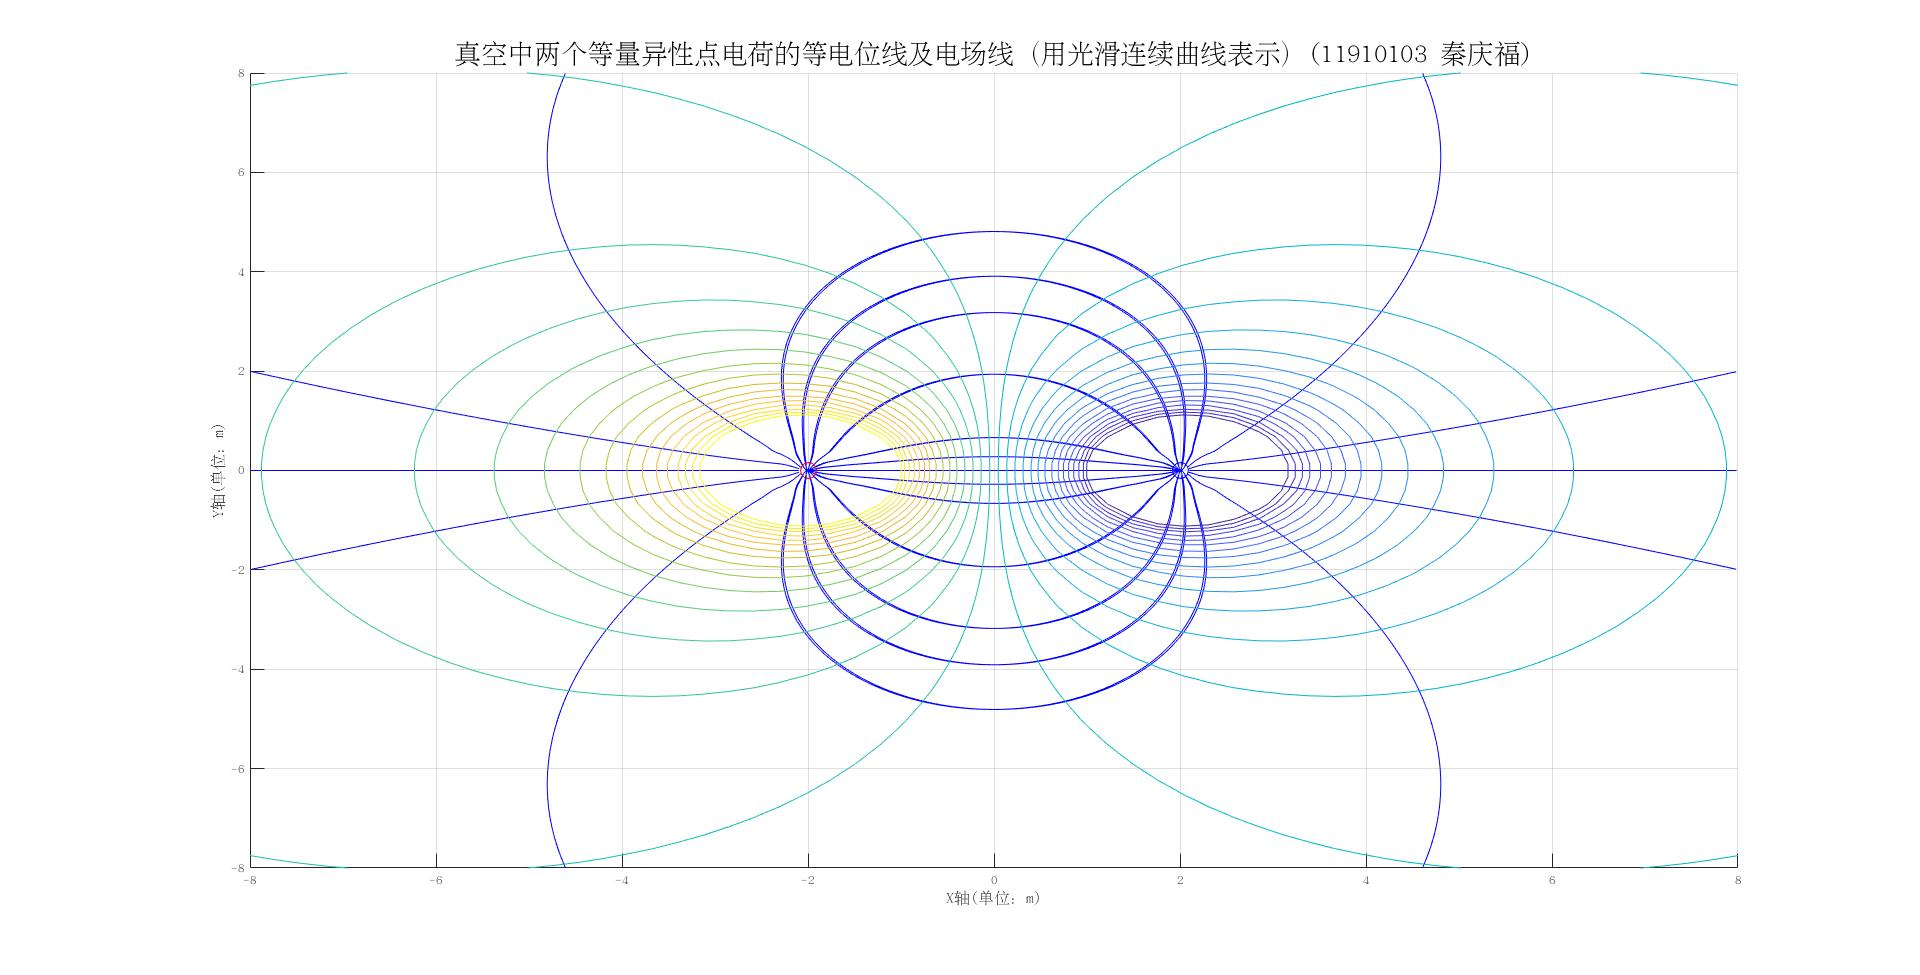
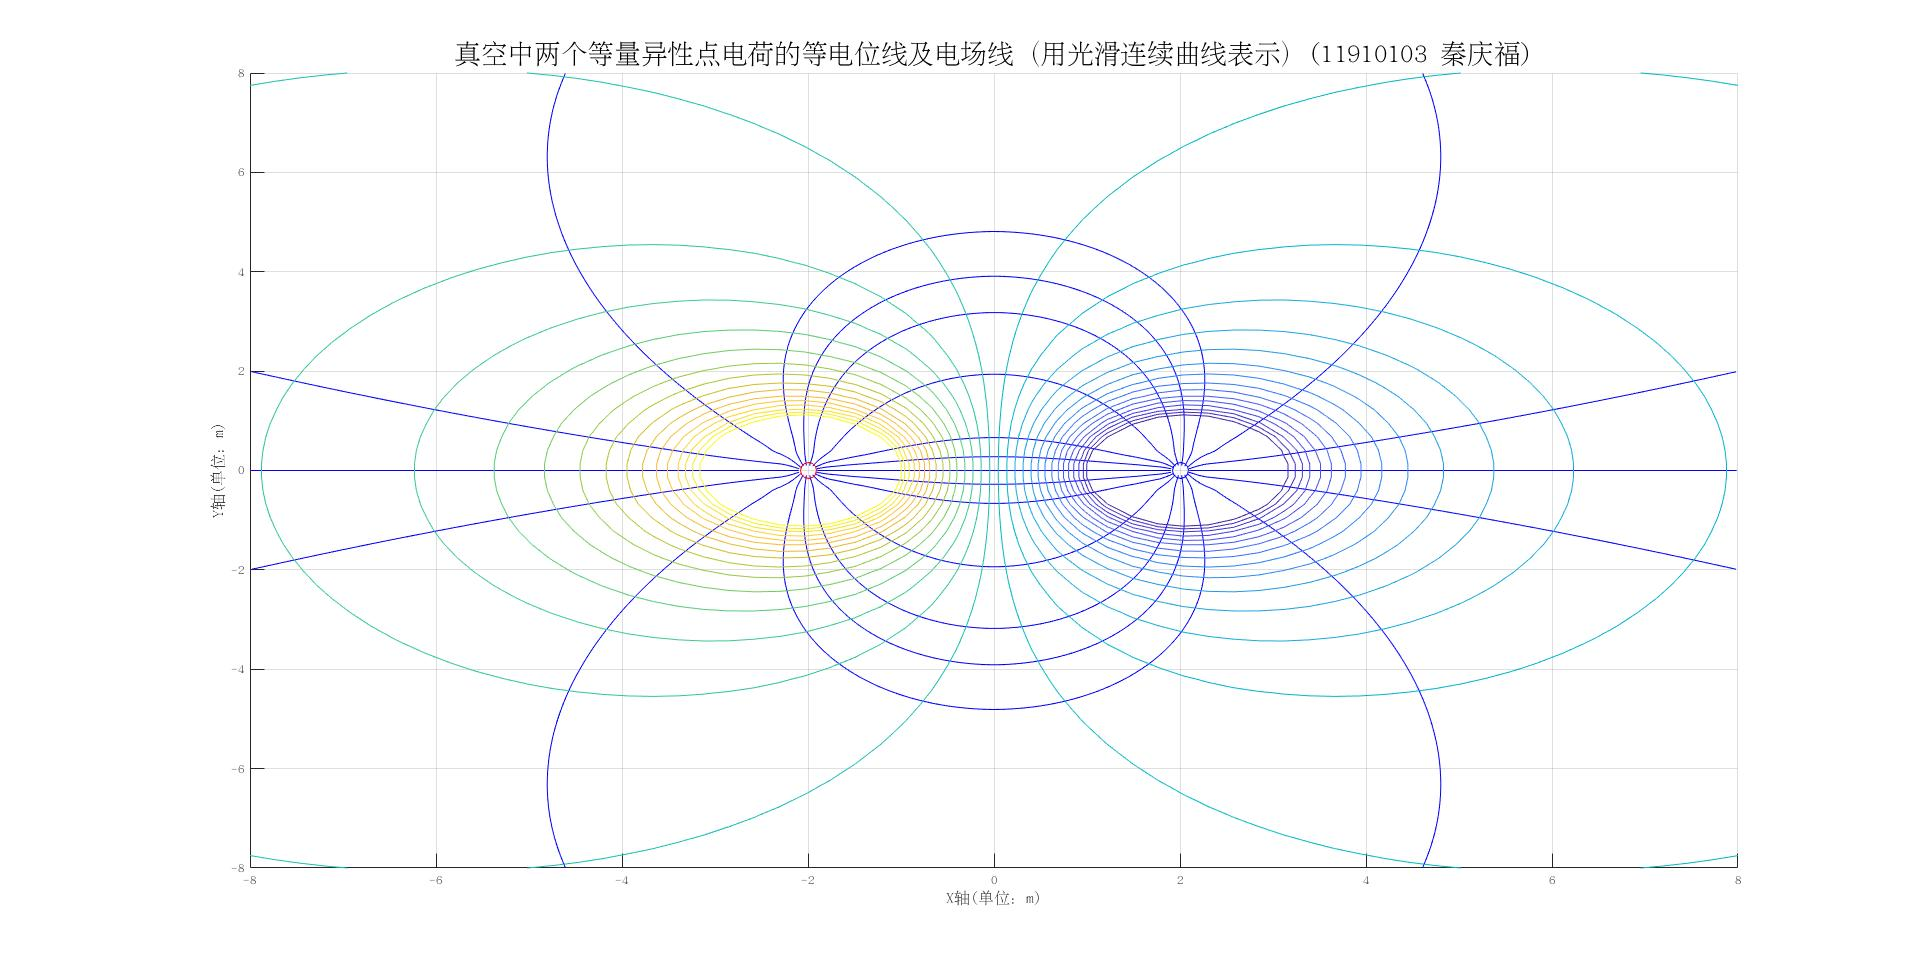
edit work2-3

Changed region(s): [[0.4062, 0.3385, 0.4688, 0.6154], [0.5938, 0.3692, 0.625, 0.5846]]

diff --git a/hw1/work2.m b/hw1/work2.m
@@ -15,7 +15,7 @@ R2=sqrt((X-2).^2+Y.^2);                                  % 计算场域中各点
 V1=k*Q1./R1;                                                % 计算场域中各点因点电荷q1产生的电位
 V2=k*Q2./R2;                                                % 计算场域中各点因点电荷q2产生的电位
 V=V1+V2;                                                    % 将由q1和q2产生的电位叠加
-figure(1);                                                  % 在图像窗口1绘图
+figure();                                                  % 在图像窗口1绘图
 mesh(X,Y,V);                                                % 绘制出电位的分布图
 hold on;                                                    % 保持图形                                                 
 title('真空中两个等量异性点电荷的电场线(11910103 秦庆福)','fontsize',20);      % 绘制出图形标题
@@ -43,8 +43,8 @@ xs1=0.1*cos(theta)-2;                                  % 从q1生成电力线的
 xs2=0.1*cos(theta)+2;                                  % 从q2生成电力线的x轴坐标
 ys=0.1*sin(theta);                                        % q1,q2生成电力线的y轴坐标
 figure(3);                                                  % 在图像窗口3绘图
-streamline(X,Y,Ex,Ey,xs1,ys);                               % 生成q1产生的电力线
-streamline(X,Y,-Ex,-Ey,xs2,ys);                               % 生成q2产生的电力线
+streamline(X(:,1:1:31),Y(:,1:1:31),Ex(:,1:1:31),Ey(:,1:1:31),xs1,ys);                               % 生成q1产生的电力线
+streamline(X(:,30:1:60),Y(:,30:1:60),-Ex(:,30:1:60),-Ey(:,30:1:60),xs2,ys);                               % 生成q2产生的电力线
 grid on;                                                    % 形成网格
 hold on;                                                    % 保持图形
 contour(X,Y,V,Veq);                                         % 绘制等势线
